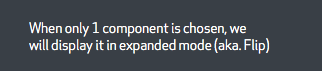
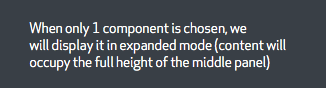
Visuals

Changed region(s): [[0.0621, 0.2254, 0.9006, 0.8169]]

diff --git a/connect_customization/opt1/framer/framer.generated.js b/connect_customization/opt1/framer/framer.generated.js
@@ -1207,9 +1207,9 @@ window.__imported__["0106-Prototype/layers.json.js"] = [
                 "id": "49AFB013-DED7-4551-8D61-C8408A3D43D1", 
                 "image": {
                     "frame": {
-                        "height": 71, 
-                        "width": 322, 
-                        "x": 559, 
+                        "height": 88, 
+                        "width": 326, 
+                        "x": 557, 
                         "y": 624
                     }, 
                     "path": "images/Layer-MiddleFlip-49AFB013-DED7-4551-8D61-C8408A3D43D1.png"
@@ -1217,9 +1217,9 @@ window.__imported__["0106-Prototype/layers.json.js"] = [
                 "imageType": "png", 
                 "kind": "group", 
                 "layerFrame": {
-                    "height": 71, 
-                    "width": 322, 
-                    "x": 559, 
+                    "height": 88, 
+                    "width": 326, 
+                    "x": 557, 
                     "y": 624
                 }, 
                 "maskFrame": null, 

diff --git a/connect_customization/opt1/imported/0106-Prototype@1x/layers.json.js b/connect_customization/opt1/imported/0106-Prototype@1x/layers.json.js
@@ -1204,9 +1204,9 @@ window.__imported__["0106-Prototype/layers.json.js"] = [
                 "id": "49AFB013-DED7-4551-8D61-C8408A3D43D1", 
                 "image": {
                     "frame": {
-                        "height": 71, 
-                        "width": 322, 
-                        "x": 559, 
+                        "height": 88, 
+                        "width": 326, 
+                        "x": 557, 
                         "y": 624
                     }, 
                     "path": "images/Layer-MiddleFlip-49AFB013-DED7-4551-8D61-C8408A3D43D1.png"
@@ -1214,9 +1214,9 @@ window.__imported__["0106-Prototype/layers.json.js"] = [
                 "imageType": "png", 
                 "kind": "group", 
                 "layerFrame": {
-                    "height": 71, 
-                    "width": 322, 
-                    "x": 559, 
+                    "height": 88, 
+                    "width": 326, 
+                    "x": 557, 
                     "y": 624
                 }, 
                 "maskFrame": null, 
